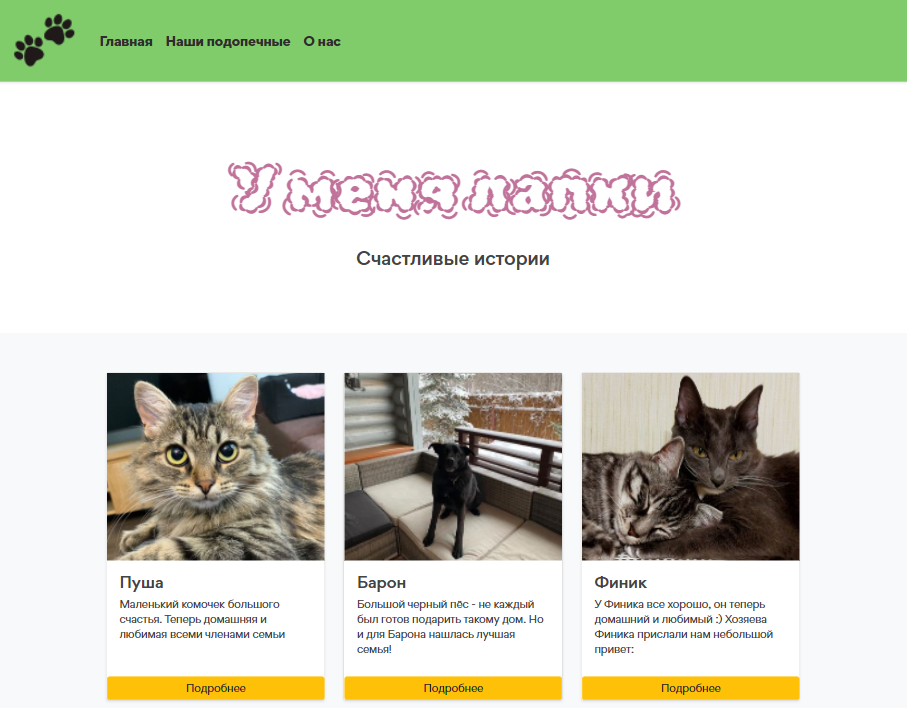
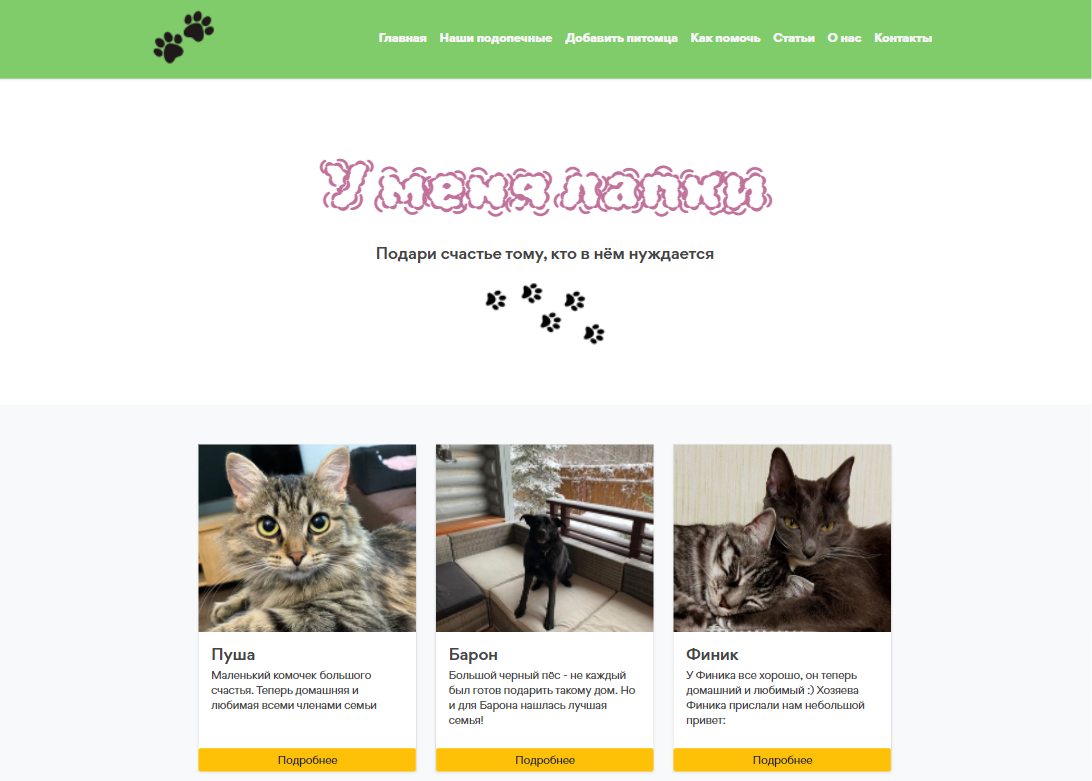
extra pages

Changed region(s): [[0.0926, 0.5282, 0.8953, 0.9944], [0.247, 0.1864, 0.7718, 0.435], [0.0, 0.0, 1.0, 0.1243]]

diff --git a/src/main/resources/templates/articles.html b/src/main/resources/templates/articles.html
@@ -1,0 +1,69 @@
+<!DOCTYPE html>
+<html lang="en" xmlns:th="http://www.thymeleaf.org" xmlns="http://www.w3.org/1999/html">
+<head>
+    <meta charset="UTF-8">
+    <title th:text="${title}"/>
+    <link rel="stylesheet" href="https://stackpath.bootstrapcdn.com/bootstrap/4.5.2/css/bootstrap.min.css">
+    <link rel="stylesheet" href="../static/css/style.css" th:href="@{/css/style.css}">
+    <style>
+        .img-responsive{
+            max-height: 200px;
+            object-fit: cover;
+        }
+    </style>
+</head>
+    <body>
+    <header th:insert="blocks/header :: header"></header>
+    <div class="container mt-5">
+        <h1 style="padding-bottom: 20px;">Полезно знать каждому хозяину</h1>
+        <div class="row">
+            <div class="card" style="width: 22rem;">
+                <img class="img-responsive card-img-top" th:src="@{/images/article6.png}" alt="...">
+                <div class="card-body">
+                    <h5 class="card-title">Стоит ли заводить собаку?</h5>
+                    <a href="#" class="btn btn-warning">Читать</a>
+                </div>
+            </div>
+            <div class="card" style="width: 22rem;">
+                <img class="img-responsive card-img-top" th:src="@{/images/article5.png}"alt="...">
+                <div class="card-body">
+                    <h5 class="card-title">Как кормить щенка?</h5>
+                    <a href="#" class="btn btn-warning">Читать</a>
+                </div>
+            </div>
+            <div class="card" style="width: 22rem;">
+                <img class="img-responsive card-img-top" th:src="@{/images/article1.png}" alt="...">
+                <div class="card-body">
+                    <h5 class="card-title">Адаптация собаки из приюта</h5>
+                    <a href="#" class="btn btn-warning">Читать</a>
+                </div>
+            </div>
+        </div>
+        <div class="row">
+            <div class="card" style="width: 22rem;">
+                <img class="img-responsive card-img-top" th:src="@{/images/article3.png}"alt="...">
+                <div class="card-body">
+                    <h5 class="card-title">Как познакомить котенка с другими питомцами?</h5>
+                    <a href="#" class="btn btn-warning">Читать</a>
+                </div>
+            </div>
+            <div class="card" style="width: 22rem;">
+                <img class="img-responsive card-img-top" th:src="@{/images/article2.png}" alt="...">
+                <div class="card-body">
+                    <h5 class="card-title">Как правильно гулять со щенком?</h5>
+                    <a href="#" class="btn btn-warning">Читать</a>
+                </div>
+            </div>
+            <div class="card" style="width: 22rem;">
+                <img class="img-responsive card-img-top" th:src="@{/images/article4.png}" alt="...">
+                <div class="card-body">
+                    <h5 class="card-title">О чём думает ваш кот?</h5>
+                    <a href="#" class="btn btn-warning">Читать</a>
+                </div>
+            </div>
+        </div>
+    </div>
+
+    <div th:insert="blocks/footer :: footer"></div>
+</body>
+</html>

diff --git a/src/main/resources/templates/help.html b/src/main/resources/templates/help.html
@@ -1,0 +1,59 @@
+<!DOCTYPE HTML>
+<html xmlns:th="http://www.thymeleaf.org">
+<head>
+    <title>Наши зверушки</title>
+    <meta http-equiv="Content-Type" content="text/html; charset=UTF-8" />
+    <link rel="stylesheet" href="https://stackpath.bootstrapcdn.com/bootstrap/4.5.2/css/bootstrap.min.css">
+    <link rel="stylesheet" th:href="@{/css/style.css}">
+    <style>
+        .card {
+            border-width: 0px;
+            box-shadow: 0px 10px 15px #d9d9d9;
+        }
+        .img-responsive {
+            max-height: 200px;
+            object-fit: contain;
+        }
+    </style>
+</head>
+
+<body>
+
+<header th:insert="blocks/header :: header"></header>
+
+<div class="container mt-5">
+    <h1 style="padding-bottom: 20px;">Как помочь</h1>
+    <h3>Волонтерское движение</h3><br>
+    <div class="row">
+        <div class="card" style="width: 22rem;">
+            <img class="img-responsive card-img-top" th:src="@{/images/cover.png}" alt="...">
+            <div class="card-body">
+                <p class="card-text">
+                    Собакам и кошкам очень важно общение с человеком – социальные навыки помогут им быстрее найти хозяина. Приезжайте поиграть, погулять и просто погладить питомцев!
+                </p>
+            </div>
+        </div>
+        <div class="card" style="width: 22rem;">
+            <img class="img-responsive card-img-top" th:src="@{/images/cover.png}" alt="...">
+            <div class="card-body">
+                <p class="card-text">
+                    Игрушки, одноразовые пеленки, медикаменты, корма, моющие средства и многое другое нужно животным каждый день. Узнайте, чего не хватает питомцам в ближайшем к вам приюте!
+                </p>
+            </div>
+        </div>
+        <div class="card" style="width: 22rem;">
+            <img class="img-responsive card-img-top" th:src="@{/images/cover.png}" alt="...">
+            <div class="card-body">
+                <p class="card-text">
+                    Есть желание стать волонтёром? Напишите нам! Мы рады принимать в свои ряды каждого, кто не безразличен к братьям нашим меньшим.
+                </p>
+            </div>
+        </div>
+    </div>
+    <h3>Пожертвования</h3><br>
+</div>
+
+<div th:insert="blocks/footer :: footer"></div>
+
+</body>
+</html>

diff --git a/src/main/resources/templates/contact.html b/src/main/resources/templates/contact.html
@@ -1,0 +1,46 @@
+<!DOCTYPE HTML>
+<html xmlns:th="http://www.thymeleaf.org" xmlns="http://www.w3.org/1999/html">
+<head>
+    <title th:text="${title}"/>
+    <meta http-equiv="Content-Type" content="text/html; charset=UTF-8" />
+    <link rel="stylesheet" href="https://stackpath.bootstrapcdn.com/bootstrap/4.5.2/css/bootstrap.min.css">
+    <link rel="stylesheet" th:href="@{/css/style.css}">
+    <style>
+        input {
+            writing-mode: horizontal-tb;
+        }
+    </style>
+</head>
+
+<body>
+
+<header th:insert="blocks/header :: header"></header>
+
+<div class="container mt-5 ">
+    <h1 style="padding-bottom: 20px;">Связаться с нами</h1>
+    <div class="alert alert-info mt-2">
+        <p>
+            Если вы выбрали питомца на нашем сайте, то для связи с волонтерами приюта вы можете отправить письмо на почтовый ящик ihavepaws@mail.ru, позвонить нам по номеру +79283151436 или воспользоваться формой обратной связи.
+        </p>
+        <p>
+            Опишите критерии, по которым вы выбираете, и мы обязательно вам ответим и договоримся о времени визита в приют, где покажем вам подходящих питомцев.
+        </p>
+        <p>
+            Мы - сообщество волонтеров и находимся в приюте нерегулярно. Поэтому просим вас планировать ваш визит заранее и приезжать только договорившись о встрече.
+        </p>
+    </div>
+    <form action="#">
+        <label for="theme">Тема</label>
+        <input id="theme" type="text" placeholder="Взять собаку..." class="form-control" required><br>
+        <label for="username">Логин</label>
+        <input type="text" id="username" placeholder="user123" class="form-control" required><br>
+        <label for="phone">Телефон</label>
+        <input type="text" id="phone" placeholder="+79100101010" class="form-control" required><br>
+        <label for="question">Вопрос</label>
+        <textarea id="question" placeholder="Если я хочу взять несколько животных..." class="form-control" required></textarea><br>
+        <button type="submit" class="btn btn-success">Отправить</button>
+    </form>
+</div>
+
+
+<div th:insert="blocks/footer :: footer"></div>

diff --git a/src/main/resources/templates/about.html b/src/main/resources/templates/about.html
@@ -72,18 +72,6 @@
                 А еще нашим собакам и кошкам очень нужна ласка и общение с человеком, поэтому мы всегда рады новым волонтерам.
             </p>
         </div>
-        <h4>Как связаться с нами</h4>
-        <div class="alert alert-info mt-2">
-            <p>
-                Если вы выбрали питомца на нашем сайте, то для связи с волонтерами приюта вы можете отправить письмо на почтовый ящик ihavepaws@mail.ru или позвонить нам по номеру +79283151436.
-            </p>
-            <p>
-                Опишите критерии, по которым вы выбираете, и мы обязательно вам ответим и договоримся о времени визита в приют, где покажем вам подходящих питомцев.
-            </p>
-            <p>
-                Мы - сообщество волонтеров и находимся в приюте нерегулярно. Поэтому просим вас планировать ваш визит заранее и приезжать только договорившись о встрече по почте или телефону.
-            </p>
-        </div>
         <div class="end-image">
             <img src="" th:src="@{/images/welcome.jpg}" alt="welcome">
         </div>

diff --git a/src/main/resources/templates/blocks/header.html b/src/main/resources/templates/blocks/header.html
@@ -1,13 +1,20 @@
 <header th:fragment="header"
         class="d-flex flex-column flex-md-row align-items-center p-3 px-md-4 mb-3 bg-body border-bottom shadow-sm"
-        xmlns:th="http://www.w3.org/1999/xhtml">
+        xmlns:th="http://www.w3.org/1999/xhtml"
+        xmlns:sec="http://www.thymeleaf.org/extras/spring-security">
     <div class="menu">
         <a href="/" style="padding-right: 30px"><img th:src="@{/images/logo.png}" alt="logo"></a>
         <nav class="my-2 my-md-0 me-md-3">
             <a class="p-2" href="/">Главная</a>
-            <a class="p-2" href="/blog">Наши подопечные</a>
-            <a th:if="${addNews!='unauth'}" th:text="${addNews}" class="p-2" href="/add"></a>
+            <a class="p-2" href="/blog" style="margin-right: 0;">Наши подопечные</a>
+            <a class="p-2" href="/add" th:if="${addNews!='unauth'}" th:text="${addNews}" style="margin-right: 0;" ></a>
+            <a class="p-2" href="/help">Как помочь</a>
+            <a class="p-2" href="/articles">Статьи</a>
             <a class="p-2" href="/about">О нас</a>
+            <a class="p-2" href="/contact">Контакты</a>
         </nav>
+        <form class="p-2" sec:authorize="!isAuthenticated()" action="/auth/login">
+            <button id="logout" type="submit">Войти</button>
+        </form>
     </div>
 </header>

diff --git a/src/main/resources/templates/home.html b/src/main/resources/templates/home.html
@@ -35,14 +35,16 @@
             <div class="row py-lg-5">
                 <div class="flex-title mx-auto">
                     <h1 class="fw-light">У меня лапки</h1><br>
-                    <h3 class="fw-light" style="padding: 0;">Счастливые истории</h3>
+                    <h4 class="fw-light" style="padding: 0;">Подари счастье тому, кто в нём нуждается</h4><br>
+                    <div class="img-center">
+                        <img src="" th:src="@{/images/footerlogo.png}" alt="footerlogo"/>
+                    </div>
                 </div>
             </div>
         </section>
 
         <div class="album py-5 bg-light">
-            <div class="container">
-
+            <div class="container" id="stories">
                 <div class="row row-cols-1 row-cols-sm-2 row-cols-md-3 g-3">
                     <div class="col">
                         <div class="card shadow-sm">

diff --git a/src/main/resources/static/css/style.css b/src/main/resources/static/css/style.css
@@ -29,17 +29,21 @@ header {
 
 .menu {
     display: flex;
+    justify-content: space-evenly;
+    flex-direction: row;
     align-items: center;
+    width: 100%;
 }
 
 nav a {
-    color: #2f2c2c;
-    font-size: 20px;
+    color: #f5f5f5;
+    font-size: 18px;
     font-weight: bold;
+
 }
 
 nav a:hover {
-    color: white;
+    color: #5656ff;
     text-decoration: none;
     transition-duration: 0.5s;
 }
@@ -47,4 +51,10 @@ nav a:hover {
 .img-center {
     display: flex;
     justify-content: center;
+}
+
+.row{
+    display: flex;
+    justify-content: space-around;
+    padding-bottom: 30px;
 }

diff --git a/src/main/resources/templates/blocks/footer.html b/src/main/resources/templates/blocks/footer.html
@@ -2,7 +2,7 @@
 
     <div class="img-center">
         <img src="" th:src="@{/images/footerlogo.png}" alt="footerlogo"/>
-    </div>
+    </div><br>
     <div class="footer-container" style="display: flex; justify-content: space-evenly; align-items: center">
         <p class="float-end mb-1">
             <a href="#">Наверх</a>

diff --git a/src/main/java/com/work/shelter/controllers/MainController.java b/src/main/java/com/work/shelter/controllers/MainController.java
@@ -1,20 +1,17 @@
 package com.work.shelter.controllers;
 
 import com.work.shelter.services.HeaderService;
+import lombok.RequiredArgsConstructor;
 import org.springframework.beans.factory.annotation.Autowired;
 import org.springframework.stereotype.Controller;
 import org.springframework.ui.Model;
 import org.springframework.web.bind.annotation.GetMapping;
 
 @Controller
+@RequiredArgsConstructor
 public class MainController {
 
     private final HeaderService headerService;
-
-    @Autowired
-    public MainController(HeaderService headerService) {
-        this.headerService = headerService;
-    }
 
     @GetMapping("/")
     public String home(Model model) {
@@ -25,15 +22,36 @@ public class MainController {
 
     @GetMapping("/about")
     public String about(Model model) {
-        model.addAttribute("title", "Страница про нас");
+        model.addAttribute("title", "О нас");
         model.addAttribute("addNews", headerService.isUser());
         return "about";
+    }
+
+    @GetMapping("/help")
+    public String help(Model model) {
+        model.addAttribute("title", "Как помочь");
+        model.addAttribute("addNews", headerService.isUser());
+        return "help";
     }
 
     @GetMapping("/auth/login")
     public String getLoginPage(Model model) {
         model.addAttribute("title", "Логин");
+        model.addAttribute("addNews", headerService.isUser());
         return "login";
+    }
+
+    @GetMapping("/articles")
+    public String articles(Model model) {
+        model.addAttribute("title", "Статьи");
+        model.addAttribute("addNews", headerService.isUser());
+        return "articles";
+    }
+    @GetMapping("/contact")
+    public String getContactPage(Model model) {
+        model.addAttribute("title", "Контакты");
+        model.addAttribute("addNews", headerService.isUser());
+        return "contact";
     }
 
 }

diff --git a/src/main/java/com/work/shelter/controllers/BlogAnimalController.java b/src/main/java/com/work/shelter/controllers/BlogAnimalController.java
@@ -2,6 +2,7 @@ package com.work.shelter.controllers;
 
 import com.work.shelter.entity.Animal;
 import com.work.shelter.services.HeaderService;
+import lombok.RequiredArgsConstructor;
 import org.springframework.security.access.prepost.PreAuthorize;
 import org.springframework.security.core.Authentication;
 import org.springframework.security.core.context.SecurityContextHolder;
@@ -18,16 +19,11 @@ import java.util.ArrayList;
 import java.util.Optional;
 
 @Controller
+@RequiredArgsConstructor
 public class BlogAnimalController {
 
     private final PostRepository postRepository;
     private final HeaderService headerService;
-
-    @Autowired
-    public BlogAnimalController(PostRepository postRepository, HeaderService headerService) {
-        this.postRepository = postRepository;
-        this.headerService = headerService;
-    }
 
     @GetMapping("/blog")
     public String blogAnimal(Model model) {

diff --git a/README.md b/README.md
@@ -16,6 +16,9 @@
     <img src="/src/main/resources/static/images/petspage.png" alt="pets_page"><br>
     <img src="/src/main/resources/static/images/aboutpage.png" alt="about_page"><br>
     <img src="/src/main/resources/static/images/adminpage.png" alt="admin_page"><br>
+    <img src="/src/main/resources/static/images/articlespage.png" alt="articles_page"><br>
+    <img src="/src/main/resources/static/images/helppage.png" alt="help_page"><br>
+    <img src="/src/main/resources/static/images/contactpage.png" alt="contact_page"><br>
     <img src="/src/main/resources/static/images/loginpage.png" alt="login_page"><br>
 </div>
 
@@ -25,6 +28,7 @@
 * [Spring Boot](https://spring.io/) - Java-фреймворк для создания веб-приложений
 * [Spring Security](https://spring.io/) - Java-фреймворк для построения систем аутентификации и авторизации
 * [Spring Data JPA](https://spring.io/) - Java-библиотека для взаимодействия с сущностями базы данных
+* [Apache Maven](https://maven.apache.org/) — фреймворк для автоматизации сборки проектов
 * [PostgreSQL](https://www.postgresql.org/) - система управления базами данных
 * [Thymeleaf](https://www.thymeleaf.org/) - это шаблонизатор Java HTML
 * [Bootstrap](https://getbootstrap.com/) - фреймворк для создания сайтов и веб-приложений
@@ -52,7 +56,6 @@
 
 РТУ МИРЭА ИКБО-16-20
 
-[//]: # (Project Link: [https://github.com/your_username/repo_name]&#40;https://github.com/your_username/repo_name&#41;)
 <br>
 <div align="center">
     <img src="/src/main/resources/static/images/footerlogo.png" alt="footer_logo">
